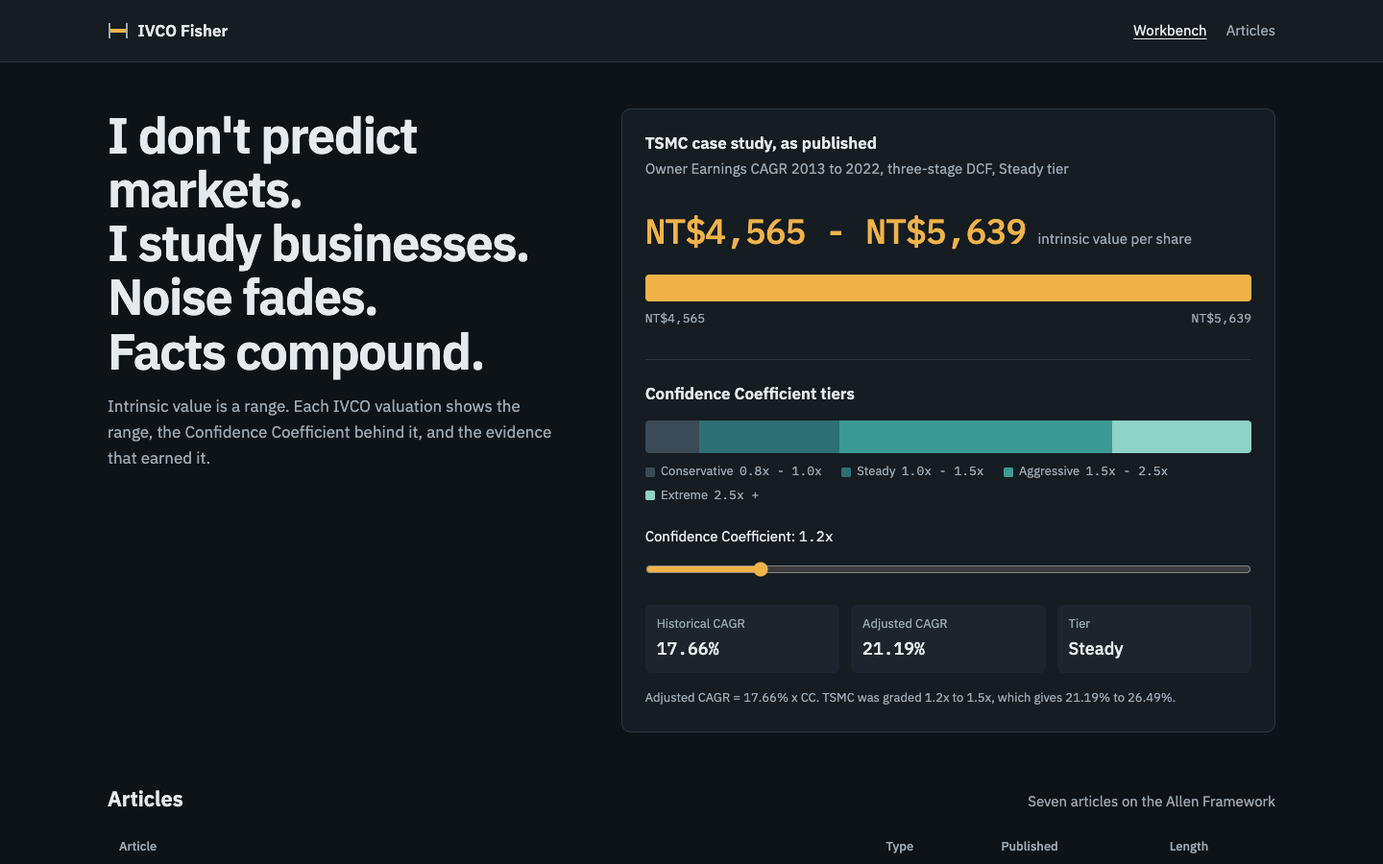
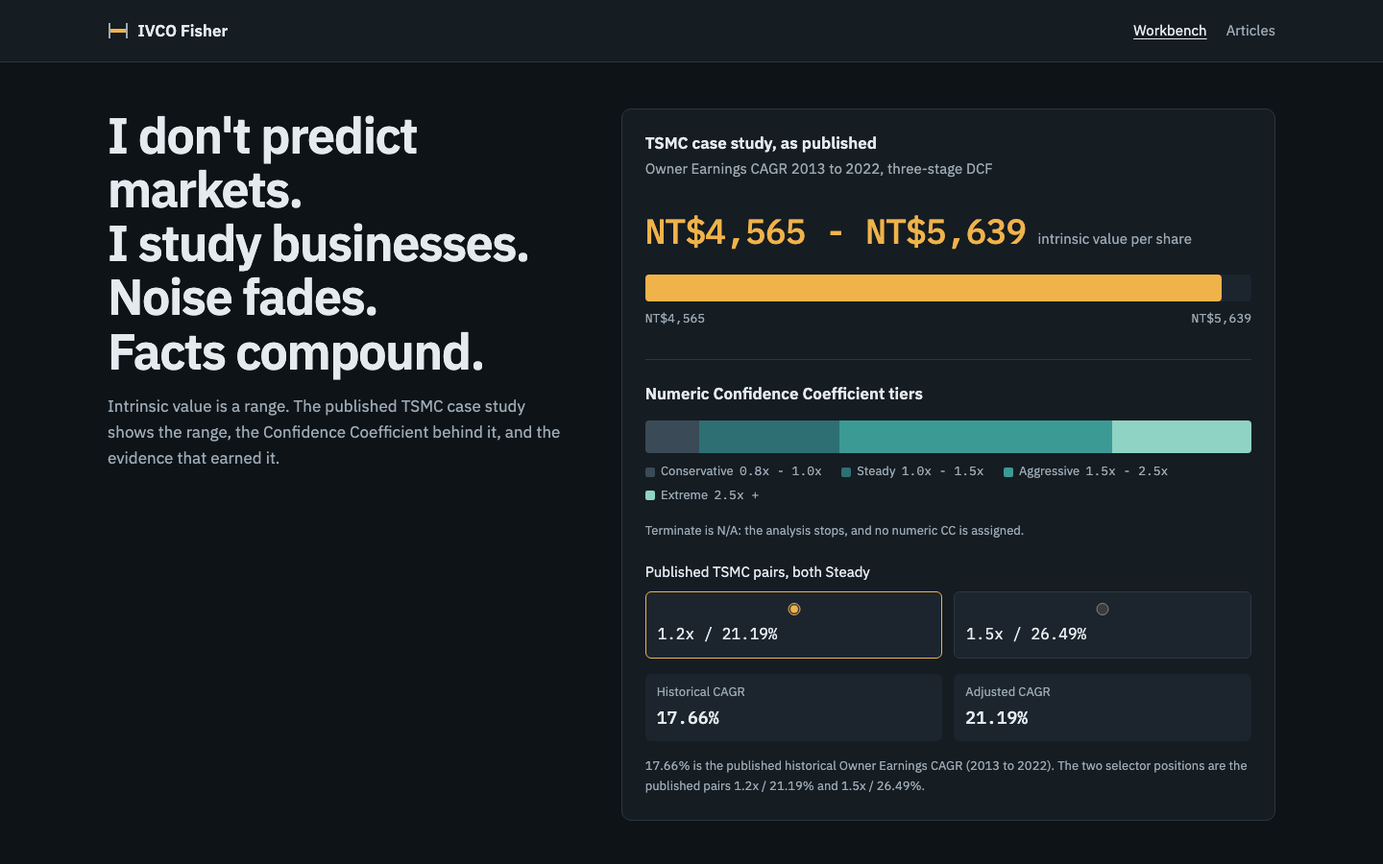
docs(design): apply #4 round-2 oracle on both ivco.ai directions
Restore published TSMC pairs, footer, dates, and working inline source links.
Refresh screenshots and detector JSON with repository-relative paths.

diff --git a/design-proposals/ivco-2026-11/a/post.html b/design-proposals/ivco-2026-11/a/post.html
@@ -4,7 +4,7 @@
 <meta charset="utf-8">
 <meta name="viewport" content="width=device-width, initial-scale=1">
 <title>Confidence Coefficient: Why a Range, Not a Number — IVCO Fisher</title>
-<meta name="description" content="IVCO Fisher: independent value investing research.">
+<meta name="description" content="Confidence Coefficient: Why a Range, Not a Number.">
 <link rel="preconnect" href="https://fonts.googleapis.com">
 <link rel="preconnect" href="https://fonts.gstatic.com" crossorigin>
 <link href="https://fonts.googleapis.com/css2?family=Newsreader:ital,opsz,wght@0,6..72,400;0,6..72,500;0,6..72,600;1,6..72,400&family=Hanken+Grotesk:wght@400;500;600&display=swap" rel="stylesheet">
@@ -117,7 +117,7 @@ table.spec tbody th{font-weight:400}table.spec td{text-align:right;font-weight:6
 <p>The Confidence Coefficient (CC) is a multiplier applied to a company's historical Owner Earnings CAGR. It reflects your forward-looking conviction about whether that company will grow faster, slower, or about the same as its historical track record.</p>
 <p class="formula">Adjusted CAGR = Historical Owner Earnings CAGR × CC</p>
 <p>If a company's historical CAGR is 17.66% and your CC is 1.2x, your adjusted CAGR becomes 21.19%. If your CC is 1.5x, it's 26.49%.</p>
-<p>Notice what happened: you didn't get a single growth rate. You got a range. And that range feeds directly into a Three-Stage DCF that produces an intrinsic value range — not a point estimate.</p>
+<p>Notice what happened: you didn't get a single growth rate. You got a range. And that range feeds directly into a <a href="https://ivco.ai/posts/three-stage-dcf-philosophy-to-algorithm">Three-Stage DCF</a> that produces an intrinsic value range — not a point estimate.</p>
 <p>This is deliberate. The CC exists precisely because the future is uncertain, and pretending otherwise is the most dangerous thing a value investor can do.</p>
 <p>But — and this is crucial — the CC isn't just a number you pull out of thin air. It has a grading system. It has escalating evidence requirements. And it can go down, not just up.</p>
 <h2 id="the-grading-system-four-tiers-plus-one-kill-switch">The Grading System: Four Tiers (Plus One Kill Switch)</h2>
@@ -167,12 +167,12 @@ table.spec tbody th{font-weight:400}table.spec td{text-align:right;font-weight:6
 <p>The CC is designed to move.</p>
 <p>New earnings call reveals accelerated capex timeline? CC goes up. Management misses a delivery commitment for the first time? CC goes down. A competitor announces a breakthrough that narrows the technology gap? CC goes down. Insider buying spikes after a price decline? Maybe CC goes up — if the other evidence supports it.</p>
 <p>This is Fisher's scuttlebutt method, quantified. Fisher spent his career talking to suppliers, customers, employees — anyone who could give him a signal about a company's real trajectory. The CC takes those signals and converts them into a mathematical input.</p>
-<p>And because the CC feeds directly into a Three-Stage DCF, every adjustment ripples through the entire valuation. Change the CC, and your intrinsic value range shifts. Automatically.</p>
+<p>And because the CC feeds directly into a <a href="https://ivco.ai/posts/three-stage-dcf-philosophy-to-algorithm">Three-Stage DCF</a>, every adjustment ripples through the entire valuation. Change the CC, and your intrinsic value range shifts. Automatically.</p>
 <p>That's the system we're building at IVCO (Intrinsic Value Confidence Observatory). Not a static spreadsheet. A living, breathing valuation engine that updates as the world changes.</p>
 <h2 id="tsmc-the-confidence-coefficient-in-action">TSMC: The Confidence Coefficient in Action</h2>
-<p>Let's make this concrete with a company I've studied for years: TSMC.</p>
+<p>Let's make this concrete with a company I've studied for years: <a href="https://investor.tsmc.com">TSMC</a>.</p>
 <h3>The historical facts</h3>
-<p>TSMC's Owner Earnings CAGR from 2013 to 2022 is 17.66%. That's nine years of data, calculated using the Allen Framework's Owner Earnings formula with a 20% Maintenance Ratio — because roughly 80% of TSMC's massive capital expenditures go toward building new leading-edge fabs, not maintaining old ones.</p>
+<p>TSMC's Owner Earnings CAGR from 2013 to 2022 is 17.66%. That's nine years of data, calculated using the <a href="https://ivco.ai/posts/allen-framework-vs-buffett-owner-earnings-1986">Allen Framework's Owner Earnings formula</a> with a 20% Maintenance Ratio — because roughly 80% of TSMC's massive capital expenditures go toward building new leading-edge fabs, not maintaining old ones.</p>
 <p>The Reality Coefficient for both endpoint years is 100% — TSMC's books are clean. No one-time gains or losses distorting the numbers.</p>
 <p>So: 17.66% historical growth. Strong, but historical.</p>
 <p>The forward-looking question: what CC do we assign?</p>
@@ -205,7 +205,7 @@ table.spec tbody th{font-weight:400}table.spec td{text-align:right;font-weight:6
 <p>This is what happens when you combine Fisher's investigative rigor with a systematic framework. The information was public. It was in the annual report. Anyone could have read it. But almost nobody did — because the market was staring at the next quarter, not the next decade.</p>
 <p>The Extreme tier exists for moments like this. But it demands the highest burden of proof: annual report disclosure, a perfect execution record, and a written thesis you're willing to defend. Because a 2.5x+ CC is a bold claim, and bold claims require ironclad evidence.</p>
 <h2 id="building-it-into-ivco">Building It Into IVCO</h2>
-<p>Everything I've described — the tiers, the evidence requirements, the dynamic adjustments — is being engineered into IVCO.</p>
+<p>Everything I've described — the tiers, the evidence requirements, the dynamic adjustments — is being engineered into <a href="https://ivco.io">IVCO</a>.</p>
 <p>Here's what the system tracks, all from public information:</p>
 <ul>
 <li><strong>Capital expenditure announcements:</strong> New factory filings, equipment purchase disclosures, construction permits. When a company commits capital, IVCO records the commitment and tracks execution against timeline.</li>
@@ -214,7 +214,7 @@ table.spec tbody th{font-weight:400}table.spec td{text-align:right;font-weight:6
 <li><strong>Insider transactions:</strong> Directors and officers buying their own stock — especially after a price decline — is a signal. Not conclusive on its own, but combined with strong fundamentals and expansion evidence, it reinforces conviction.</li>
 </ul>
 <p>The beauty of this approach is that it turns Fisher's qualitative "scuttlebutt" into structured data. Instead of relying on phone calls and personal networks, IVCO monitors the public record continuously and surfaces the signals that matter.</p>
-<p>And because the CC feeds into the Three-Stage DCF automatically, every signal that shifts the CC produces an updated intrinsic value range. In real-time.</p>
+<p>And because the CC feeds into the <a href="https://ivco.ai/posts/three-stage-dcf-philosophy-to-algorithm">Three-Stage DCF</a> automatically, every signal that shifts the CC produces an updated intrinsic value range. In real-time.</p>
 <p>No analyst visit required. No quarterly model rebuild. Just a system that watches, measures, and adjusts — the way Graham, Buffett, Fisher, and Munger always said investing should be done, but never had the technology to automate.</p>
 <p>That's what we're building. And if you've ever felt frustrated by a valuation model that gave you one number and expected you to trust it — welcome.</p>
 <h2 id="frequently-asked-questions">Frequently Asked Questions</h2>
@@ -231,5 +231,5 @@ table.spec tbody th{font-weight:400}table.spec td{text-align:right;font-weight:6
 <h2>About the author</h2><p><strong>IVCO Fisher</strong> designed the Confidence Coefficient system — a five-tier framework that turns subjective conviction into measurable valuation ranges.</p>
 </div></div>
 </article></main>
-<footer class="bot"><div class="wrap"><p class="meta">IVCO Fisher. Independent value investing research. Not investment advice.</p></div></footer>
+<footer class="bot"><div class="wrap"><p class="meta">© 2026 IVCO Fisher</p></div></footer>
 </body></html>

diff --git a/design-proposals/ivco-2026-11/b/post.html b/design-proposals/ivco-2026-11/b/post.html
@@ -139,7 +139,7 @@ table.spec tbody tr:last-child td{color:var(--amber)}
 <p>The Confidence Coefficient (CC) is a multiplier applied to a company's historical Owner Earnings CAGR. It reflects your forward-looking conviction about whether that company will grow faster, slower, or about the same as its historical track record.</p>
 <p class="formula">Adjusted CAGR = Historical Owner Earnings CAGR × CC</p>
 <p>If a company's historical CAGR is 17.66% and your CC is 1.2x, your adjusted CAGR becomes 21.19%. If your CC is 1.5x, it's 26.49%.</p>
-<p>Notice what happened: you didn't get a single growth rate. You got a range. And that range feeds directly into a Three-Stage DCF that produces an intrinsic value range — not a point estimate.</p>
+<p>Notice what happened: you didn't get a single growth rate. You got a range. And that range feeds directly into a <a href="https://ivco.ai/posts/three-stage-dcf-philosophy-to-algorithm">Three-Stage DCF</a> that produces an intrinsic value range — not a point estimate.</p>
 <p>This is deliberate. The CC exists precisely because the future is uncertain, and pretending otherwise is the most dangerous thing a value investor can do.</p>
 <p>But — and this is crucial — the CC isn't just a number you pull out of thin air. It has a grading system. It has escalating evidence requirements. And it can go down, not just up.</p>
 <h2 id="the-grading-system-four-tiers-plus-one-kill-switch">The Grading System: Four Tiers (Plus One Kill Switch)</h2>
@@ -189,12 +189,12 @@ table.spec tbody tr:last-child td{color:var(--amber)}
 <p>The CC is designed to move.</p>
 <p>New earnings call reveals accelerated capex timeline? CC goes up. Management misses a delivery commitment for the first time? CC goes down. A competitor announces a breakthrough that narrows the technology gap? CC goes down. Insider buying spikes after a price decline? Maybe CC goes up — if the other evidence supports it.</p>
 <p>This is Fisher's scuttlebutt method, quantified. Fisher spent his career talking to suppliers, customers, employees — anyone who could give him a signal about a company's real trajectory. The CC takes those signals and converts them into a mathematical input.</p>
-<p>And because the CC feeds directly into a Three-Stage DCF, every adjustment ripples through the entire valuation. Change the CC, and your intrinsic value range shifts. Automatically.</p>
+<p>And because the CC feeds directly into a <a href="https://ivco.ai/posts/three-stage-dcf-philosophy-to-algorithm">Three-Stage DCF</a>, every adjustment ripples through the entire valuation. Change the CC, and your intrinsic value range shifts. Automatically.</p>
 <p>That's the system we're building at IVCO (Intrinsic Value Confidence Observatory). Not a static spreadsheet. A living, breathing valuation engine that updates as the world changes.</p>
 <h2 id="tsmc-the-confidence-coefficient-in-action">TSMC: The Confidence Coefficient in Action</h2>
-<p>Let's make this concrete with a company I've studied for years: TSMC.</p>
+<p>Let's make this concrete with a company I've studied for years: <a href="https://investor.tsmc.com">TSMC</a>.</p>
 <h3>The historical facts</h3>
-<p>TSMC's Owner Earnings CAGR from 2013 to 2022 is 17.66%. That's nine years of data, calculated using the Allen Framework's Owner Earnings formula with a 20% Maintenance Ratio — because roughly 80% of TSMC's massive capital expenditures go toward building new leading-edge fabs, not maintaining old ones.</p>
+<p>TSMC's Owner Earnings CAGR from 2013 to 2022 is 17.66%. That's nine years of data, calculated using the <a href="https://ivco.ai/posts/allen-framework-vs-buffett-owner-earnings-1986">Allen Framework's Owner Earnings formula</a> with a 20% Maintenance Ratio — because roughly 80% of TSMC's massive capital expenditures go toward building new leading-edge fabs, not maintaining old ones.</p>
 <p>The Reality Coefficient for both endpoint years is 100% — TSMC's books are clean. No one-time gains or losses distorting the numbers.</p>
 <p>So: 17.66% historical growth. Strong, but historical.</p>
 <p>The forward-looking question: what CC do we assign?</p>
@@ -227,7 +227,7 @@ table.spec tbody tr:last-child td{color:var(--amber)}
 <p>This is what happens when you combine Fisher's investigative rigor with a systematic framework. The information was public. It was in the annual report. Anyone could have read it. But almost nobody did — because the market was staring at the next quarter, not the next decade.</p>
 <p>The Extreme tier exists for moments like this. But it demands the highest burden of proof: annual report disclosure, a perfect execution record, and a written thesis you're willing to defend. Because a 2.5x+ CC is a bold claim, and bold claims require ironclad evidence.</p>
 <h2 id="building-it-into-ivco">Building It Into IVCO</h2>
-<p>Everything I've described — the tiers, the evidence requirements, the dynamic adjustments — is being engineered into IVCO.</p>
+<p>Everything I've described — the tiers, the evidence requirements, the dynamic adjustments — is being engineered into <a href="https://ivco.io">IVCO</a>.</p>
 <p>Here's what the system tracks, all from public information:</p>
 <ul>
 <li><strong>Capital expenditure announcements:</strong> New factory filings, equipment purchase disclosures, construction permits. When a company commits capital, IVCO records the commitment and tracks execution against timeline.</li>
@@ -236,7 +236,7 @@ table.spec tbody tr:last-child td{color:var(--amber)}
 <li><strong>Insider transactions:</strong> Directors and officers buying their own stock — especially after a price decline — is a signal. Not conclusive on its own, but combined with strong fundamentals and expansion evidence, it reinforces conviction.</li>
 </ul>
 <p>The beauty of this approach is that it turns Fisher's qualitative "scuttlebutt" into structured data. Instead of relying on phone calls and personal networks, IVCO monitors the public record continuously and surfaces the signals that matter.</p>
-<p>And because the CC feeds into the Three-Stage DCF automatically, every signal that shifts the CC produces an updated intrinsic value range. In real-time.</p>
+<p>And because the CC feeds into the <a href="https://ivco.ai/posts/three-stage-dcf-philosophy-to-algorithm">Three-Stage DCF</a> automatically, every signal that shifts the CC produces an updated intrinsic value range. In real-time.</p>
 <p>No analyst visit required. No quarterly model rebuild. Just a system that watches, measures, and adjusts — the way Graham, Buffett, Fisher, and Munger always said investing should be done, but never had the technology to automate.</p>
 <p>That's what we're building. And if you've ever felt frustrated by a valuation model that gave you one number and expected you to trust it — welcome.</p>
 <h2 id="frequently-asked-questions">Frequently Asked Questions</h2>
@@ -253,5 +253,5 @@ table.spec tbody tr:last-child td{color:var(--amber)}
 <h2>About the author</h2><p><strong>IVCO Fisher</strong> designed the Confidence Coefficient system — a five-tier framework that turns subjective conviction into measurable valuation ranges.</p>
 </div></article>
 </div></main>
-<footer class="bot"><div class="in">IVCO Fisher. An intrinsic value is a range. Not investment advice.</div></footer>
+<footer class="bot"><div class="in">© 2026 IVCO Fisher</div></footer>
 </body></html>

diff --git a/design-proposals/ivco-2026-11/a/index.html b/design-proposals/ivco-2026-11/a/index.html
@@ -3,8 +3,8 @@
 <head>
 <meta charset="utf-8">
 <meta name="viewport" content="width=device-width, initial-scale=1">
-<title>IVCO Fisher — Value investing research</title>
-<meta name="description" content="IVCO Fisher: independent value investing research.">
+<title>IVCO Fisher — Value Investing Observatory</title>
+<meta name="description" content="IVCO Fisher publishes the Allen Framework.">
 <link rel="preconnect" href="https://fonts.googleapis.com">
 <link rel="preconnect" href="https://fonts.gstatic.com" crossorigin>
 <link href="https://fonts.googleapis.com/css2?family=Newsreader:ital,opsz,wght@0,6..72,400;0,6..72,500;0,6..72,600;1,6..72,400&family=Hanken+Grotesk:wght@400;500;600&display=swap" rel="stylesheet">
@@ -106,15 +106,15 @@ table.spec tbody th{font-weight:400}table.spec td{text-align:right;font-weight:6
 <p>Every valuation model gives you a single number. The Confidence Coefficient gives you a range — because conviction isn&#x27;t binary, and the future isn&#x27;t a straight line.</p>
 <a class="read" href="post.html">Read the article</a></article>
 <div class="index"><h2>More from the Allen Framework</h2><ol>
-<li><article><p class="meta">Opinion, 13 min read</p><h3><a href="https://ivco.ai/posts/how-ivco-became-an-intelligence">How IVCO Became an Intelligence: From Blog Platform to AI Research Engine</a></h3><p>We set out to build a blog. We ended up building an intelligence. This is the story of how one brainstorming session turned IVCO from a static content platform into a self-evolving AI research engine — and why that distinction matters for the future of value investing.</p></article></li>
-<li><article><p class="meta">Framework, 14 min read</p><h3><a href="https://ivco.ai/posts/three-stage-dcf-philosophy-to-algorithm">Three-Stage DCF: From Philosophy to Algorithm</a></h3><p>Most DCF models pretend the future is one straight line. The Allen Framework splits it into three stages — and turns philosophy into Python you can actually run.</p></article></li>
-<li><article><p class="meta">Framework, 11 min read</p><h3><a href="https://ivco.ai/posts/what-are-owner-earnings">What Are Owner Earnings? A Practical Guide</a></h3><p>Warren Buffett said subtract maintenance capex — then told us to guess. The Allen Framework replaces the guesswork with a company-specific Maintenance Ratio you can actually measure.</p></article></li>
-<li><article><p class="meta">Brand Story, 12 min read</p><h3><a href="https://ivco.ai/posts/why-we-built-ivco">Why We Built IVCO: An AI-Powered Value Investing System</a></h3><p>IVCO was born from old-school value investing discipline, sharpened by modern tools, and designed for one purpose: help investors think better, decide clearer, and act with conviction.</p></article></li>
-<li><article><p class="meta">Case Study, 13 min read</p><h3><a href="https://ivco.ai/posts/tsmc-intrinsic-value-case-study">TSMC Case Study: From 10-Year Financials to Intrinsic Value Range</a></h3><p>Walk through TSMC&#x27;s complete valuation: 10-year financials → Owner Earnings → Reality Coefficient → Three-Stage DCF → Confidence Coefficient → IV Range of NT$4,565-5,639</p></article></li>
-<li><article><p class="meta">Framework, 11 min read</p><h3><a href="https://ivco.ai/posts/allen-framework-vs-buffett-owner-earnings-1986">Allen Framework vs Buffett Owner Earnings: What Changed</a></h3><p>Warren Buffett gave us the philosophy. The Allen Framework gave us the algorithm. Here&#x27;s how 40 years of evolution transformed &quot;owner earnings&quot; from an art into a science you can actually run.</p></article></li>
+<li><article><p class="meta">February 16, 2026, 13 min read, Opinion</p><h3><a href="https://ivco.ai/posts/how-ivco-became-an-intelligence">How IVCO Became an Intelligence: From Blog Platform to AI Research Engine</a></h3><p>We set out to build a blog. We ended up building an intelligence. This is the story of how one brainstorming session turned IVCO from a static content platform into a self-evolving AI research engine — and why that distinction matters for the future of value investing.</p></article></li>
+<li><article><p class="meta">February 16, 2026, 14 min read, Framework</p><h3><a href="https://ivco.ai/posts/three-stage-dcf-philosophy-to-algorithm">Three-Stage DCF: From Philosophy to Algorithm</a></h3><p>Most DCF models pretend the future is one straight line. The Allen Framework splits it into three stages — and turns philosophy into Python you can actually run.</p></article></li>
+<li><article><p class="meta">February 16, 2026, 11 min read, Framework</p><h3><a href="https://ivco.ai/posts/what-are-owner-earnings">What Are Owner Earnings? A Practical Guide</a></h3><p>Warren Buffett said subtract maintenance capex — then told us to guess. The Allen Framework replaces the guesswork with a company-specific Maintenance Ratio you can actually measure.</p></article></li>
+<li><article><p class="meta">February 16, 2026, 12 min read, Brand Story</p><h3><a href="https://ivco.ai/posts/why-we-built-ivco">Why We Built IVCO: An AI-Powered Value Investing System</a></h3><p>IVCO was born from old-school value investing discipline, sharpened by modern tools, and designed for one purpose: help investors think better, decide clearer, and act with conviction.</p></article></li>
+<li><article><p class="meta">February 16, 2026, 13 min read, Case Study</p><h3><a href="https://ivco.ai/posts/tsmc-intrinsic-value-case-study">TSMC Case Study: From 10-Year Financials to Intrinsic Value Range</a></h3><p>Walk through TSMC&#x27;s complete valuation: 10-year financials → Owner Earnings → Reality Coefficient → Three-Stage DCF → Confidence Coefficient → IV Range of NT$4,565-5,639</p></article></li>
+<li><article><p class="meta">February 16, 2026, 11 min read, Framework</p><h3><a href="https://ivco.ai/posts/allen-framework-vs-buffett-owner-earnings-1986">Allen Framework vs Buffett Owner Earnings: What Changed</a></h3><p>Warren Buffett gave us the philosophy. The Allen Framework gave us the algorithm. Here&#x27;s how 40 years of evolution transformed &quot;owner earnings&quot; from an art into a science you can actually run.</p></article></li>
 </ol></div>
 </section>
-<section class="about" id="about"><h2>An intrinsic value is a range, so we publish ranges.</h2><p>Every article here follows the same chain: ten years of financials, Owner Earnings, a Reality Coefficient, a Three-Stage DCF, and a Confidence Coefficient that turns conviction into a stated range. TSMC is the worked example, with an intrinsic value range of NT$4,565 to NT$5,639 per share.</p></section>
+<section class="about" id="about"><h2>An intrinsic value is a range, so we publish ranges.</h2><p>The published TSMC case study walks that chain: ten years of financials, Owner Earnings, a Reality Coefficient, a Three-Stage DCF, and a Confidence Coefficient. The resulting intrinsic value range is NT$4,565 to NT$5,639 per share.</p></section>
 </div></main>
-<footer class="bot"><div class="wrap"><p class="meta">IVCO Fisher. Independent value investing research. Not investment advice.</p></div></footer>
+<footer class="bot"><div class="wrap"><p class="meta">© 2026 IVCO Fisher</p></div></footer>
 </body></html>

diff --git a/design-proposals/ivco-2026-11/b/index.html b/design-proposals/ivco-2026-11/b/index.html
@@ -47,10 +47,13 @@ nav{display:flex;gap:1.25rem;font-size:.9375rem}nav a{color:var(--muted);text-de
 .tiers i{display:block;height:100%}
 .legend{list-style:none;margin:.6rem 0 0;padding:0;display:flex;flex-wrap:wrap;gap:.25rem 1.25rem;font-size:.8125rem;color:var(--muted)}
 .legend li{display:flex;align-items:center;gap:.4rem}.legend i{width:10px;height:10px;border-radius:2px;flex:none}
-.slide{margin-top:1.25rem}
-.slide label{display:block;font-size:.9375rem;margin-bottom:.5rem}
-input[type=range]{width:100%;accent-color:var(--amber);height:28px;margin:0}
-.readout{display:grid;grid-template-columns:repeat(3,minmax(0,1fr));gap:.75rem;margin-top:1rem}
+.cc-pick{border:0;margin:1.25rem 0 0;padding:0;min-width:0}
+.cc-pick legend{font-size:.9375rem;padding:0;margin:0 0 .5rem}
+.cc-pick .opts{display:grid;grid-template-columns:repeat(2,minmax(0,1fr));gap:.75rem}
+.cc-pick label{display:grid;gap:.2rem;background:var(--panel-2);border:1px solid var(--line);border-radius:6px;padding:.7rem .75rem;cursor:pointer;min-width:0}
+.cc-pick label:has(:checked){border-color:var(--amber)}
+.cc-pick input{accent-color:var(--amber);margin:0 0 .25rem}
+.readout{display:grid;grid-template-columns:repeat(2,minmax(0,1fr));gap:.75rem;margin-top:1rem}
 .readout div{background:var(--panel-2);border-radius:6px;padding:.6rem .75rem;min-width:0}
 .readout dt{font-size:.8125rem;color:var(--muted)}.readout dd{margin:.1rem 0 0;font-size:1.125rem;font-weight:500}
 .note{margin:1rem 0 0;font-size:.8125rem;color:var(--muted)}
@@ -118,21 +121,27 @@ table.spec tbody tr:last-child td{color:var(--amber)}
 <main id="main" class="shell">
 <section class="hero" aria-label="IVCO Fisher">
 <div><h1><span>I don&#x27;t predict markets.</span><span>I study businesses.</span><span>Noise fades.</span><span>Facts compound.</span></h1>
-<p class="lede">Intrinsic value is a range. Each IVCO valuation shows the range, the Confidence Coefficient behind it, and the evidence that earned it.</p></div>
+<p class="lede">Intrinsic value is a range. The published TSMC case study shows the range, the Confidence Coefficient behind it, and the evidence that earned it.</p></div>
 <section class="panel" aria-labelledby="case">
 <h2 id="case">TSMC case study, as published</h2>
-<p class="sub">Owner Earnings CAGR 2013 to 2022, three-stage DCF, Steady tier</p>
+<p class="sub">Owner Earnings CAGR 2013 to 2022, three-stage DCF</p>
 <p class="range-read"><span class="num">NT$4,565 - NT$5,639</span><span>intrinsic value per share</span></p>
 <div class="track" role="img" aria-label="Intrinsic value range from NT$4,565 to NT$5,639 per share"><div class="band"></div></div>
 <div class="ends num"><span>NT$4,565</span><span>NT$5,639</span></div>
 <div class="cc">
-<h2>Confidence Coefficient tiers</h2>
-<div class="tiers" role="img" aria-label="Tier scale: Conservative 0.8x to 1.0x, Steady 1.0x to 1.5x, Aggressive 1.5x to 2.5x, Extreme 2.5x and above"><i style="width:9%;background:#3A4A57"></i><i style="width:23%;background:#2E6F73"></i><i style="width:45%;background:#3C9A94"></i><i style="width:23%;background:#8FD3C4"></i></div>
+<h2>Numeric Confidence Coefficient tiers</h2>
+<div class="tiers" role="img" aria-label="Numeric Confidence Coefficient tiers: Conservative 0.8x to 1.0x, Steady 1.0x to 1.5x, Aggressive 1.5x to 2.5x, Extreme 2.5x and above"><i style="width:9%;background:#3A4A57"></i><i style="width:23%;background:#2E6F73"></i><i style="width:45%;background:#3C9A94"></i><i style="width:23%;background:#8FD3C4"></i></div>
 <ul class="legend"><li><i style="background:#3A4A57"></i>Conservative <span class="num">0.8x - 1.0x</span></li><li><i style="background:#2E6F73"></i>Steady <span class="num">1.0x - 1.5x</span></li><li><i style="background:#3C9A94"></i>Aggressive <span class="num">1.5x - 2.5x</span></li><li><i style="background:#8FD3C4"></i>Extreme <span class="num">2.5x +</span></li></ul>
-<div class="slide"><label for="cc">Confidence Coefficient: <span class="num" id="ccv">1.2x</span></label>
-<input id="cc" type="range" min="0.8" max="3" step="0.1" value="1.2"></div>
-<dl class="readout"><div><dt>Historical CAGR</dt><dd class="num">17.66%</dd></div><div><dt>Adjusted CAGR</dt><dd class="num" id="adj">21.19%</dd></div><div><dt>Tier</dt><dd id="tier">Steady</dd></div></dl>
-<p class="note">Adjusted CAGR = 17.66% x CC. TSMC was graded 1.2x to 1.5x, which gives 21.19% to 26.49%.</p>
+<p class="note">Terminate is N/A: the analysis stops, and no numeric CC is assigned.</p>
+<fieldset class="cc-pick">
+<legend>Published TSMC pairs, both Steady</legend>
+<div class="opts">
+<label><input type="radio" name="cc" value="1.2" data-adj="21.19%" checked><span class="num">1.2x / 21.19%</span></label>
+<label><input type="radio" name="cc" value="1.5" data-adj="26.49%"><span class="num">1.5x / 26.49%</span></label>
+</div>
+</fieldset>
+<dl class="readout"><div><dt>Historical CAGR</dt><dd class="num">17.66%</dd></div><div><dt>Adjusted CAGR</dt><dd class="num" id="adj">21.19%</dd></div></dl>
+<p class="note">17.66% is the published historical Owner Earnings CAGR (2013 to 2022). The two selector positions are the published pairs 1.2x / 21.19% and 1.5x / 26.49%.</p>
 </div>
 </section>
 </section>
@@ -151,11 +160,13 @@ table.spec tbody tr:last-child td{color:var(--amber)}
 </main>
 <script>
 (function(){
-  var cc=document.getElementById('cc'),v=document.getElementById('ccv'),a=document.getElementById('adj'),t=document.getElementById('tier');
-  function tier(x){return x<1?'Conservative':x<1.5?'Steady':x<2.5?'Aggressive':'Extreme';}
-  function up(){var x=parseFloat(cc.value);v.textContent=x.toFixed(1)+'x';a.textContent=(17.66*x).toFixed(2)+'%';t.textContent=tier(x);}
-  cc.addEventListener('input',up);up();
+  var a=document.getElementById('adj');
+  function up(el){a.textContent=el.getAttribute('data-adj');}
+  document.querySelectorAll('input[name=cc]').forEach(function(el){
+    el.addEventListener('change',function(){up(el);});
+    if(el.checked)up(el);
+  });
 })();
 </script>
-<footer class="bot"><div class="in">IVCO Fisher. An intrinsic value is a range. Not investment advice.</div></footer>
+<footer class="bot"><div class="in">© 2026 IVCO Fisher</div></footer>
 </body></html>

diff --git a/design-proposals/ivco-2026-11/b/DESIGN.md b/design-proposals/ivco-2026-11/b/DESIGN.md
@@ -1,13 +1,13 @@
 # Direction B: analyst workbench
 
-**Idea:** IVCO as an instrument. The first screen shows the valuation range and a Confidence Coefficient slider, so the reader sees that value is a range before reading a word.
+**Idea:** IVCO as an instrument. The first screen shows the valuation range and the published TSMC Confidence Coefficient pairs, so the reader sees that value is a range before reading a word.
 
 ## Palette
 | Name | Hex | Use |
 |---|---|---|
 | Graphite | #0E1317 | page |
 | Panel | #151C22 | panels |
-| Panel 2 | #1C252D | inset wells, slider readouts |
+| Panel 2 | #1C252D | inset wells, selector readouts |
 | Line | #2B3740 | borders |
 | Text | #E4EAEE | text |
 | Muted | #9BA9B4 | secondary text |
@@ -24,7 +24,7 @@ Tier ramp on the CC scale: #3A4A57, #2E6F73, #3C9A94, #8FD3C4 (each tier is also
 Left aligned, 12-column feel on an 80rem shell. Home: brand line and one sentence on the left, TSMC instrument panel on the right, then the seven articles as a table (type, date, length). Article: sticky left rail with the TSMC inputs and contents, 44rem text. Spacing steps 8, 16, 24, 48px. Below 56rem the grid stacks and the table becomes stacked rows.
 
 ## Data
-All numbers come from the published TSMC article: CAGR 17.66%, CC 1.2x to 1.5x, adjusted CAGR 21.19% to 26.49%, IV NT$4,565 to NT$5,639. The slider only computes adjusted CAGR = 17.66% x CC, the formula in the article. It does not compute an IV.
+All numbers come from the published TSMC article: CAGR 17.66%, CC 1.2x to 1.5x, adjusted CAGR 21.19% to 26.49%, IV NT$4,565 to NT$5,639. The two-position selector shows those published Steady pairs only. 17.66% is the historical baseline; there is no 1.0x adjusted TSMC scenario. It does not compute an IV.
 
 ## Motion
 One moment: the range bar draws in on load. Disabled under prefers-reduced-motion.
